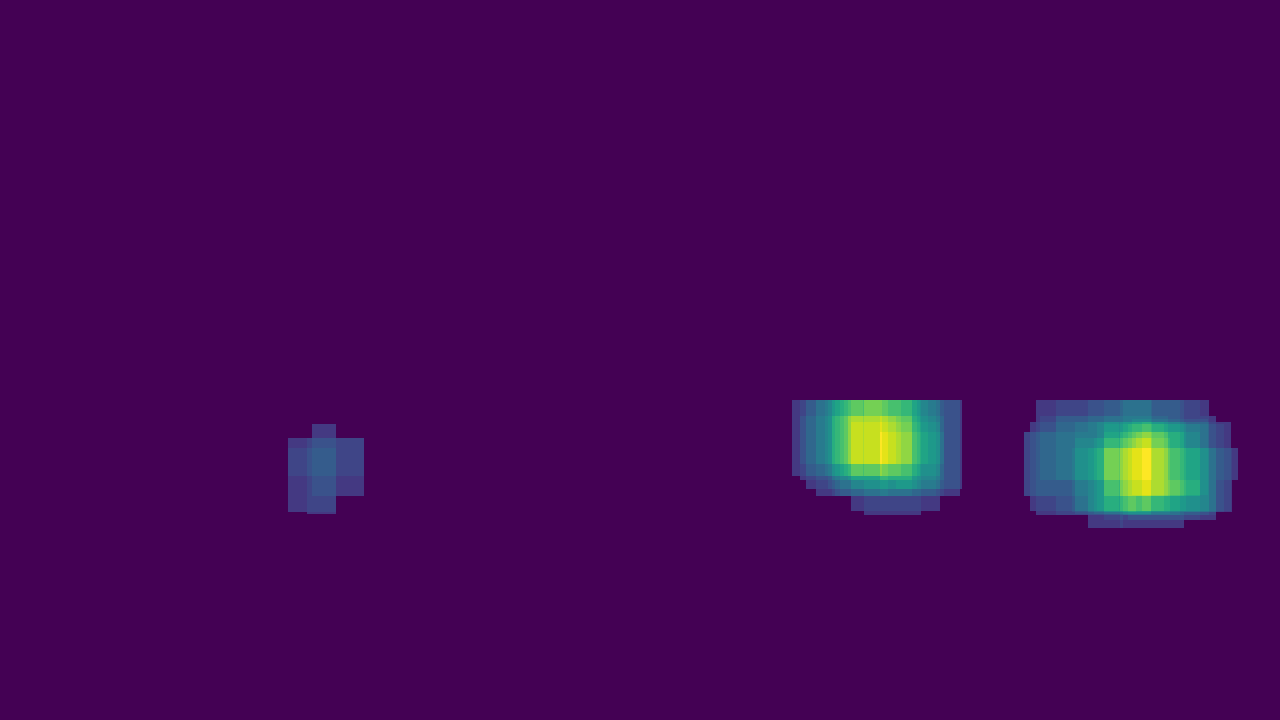
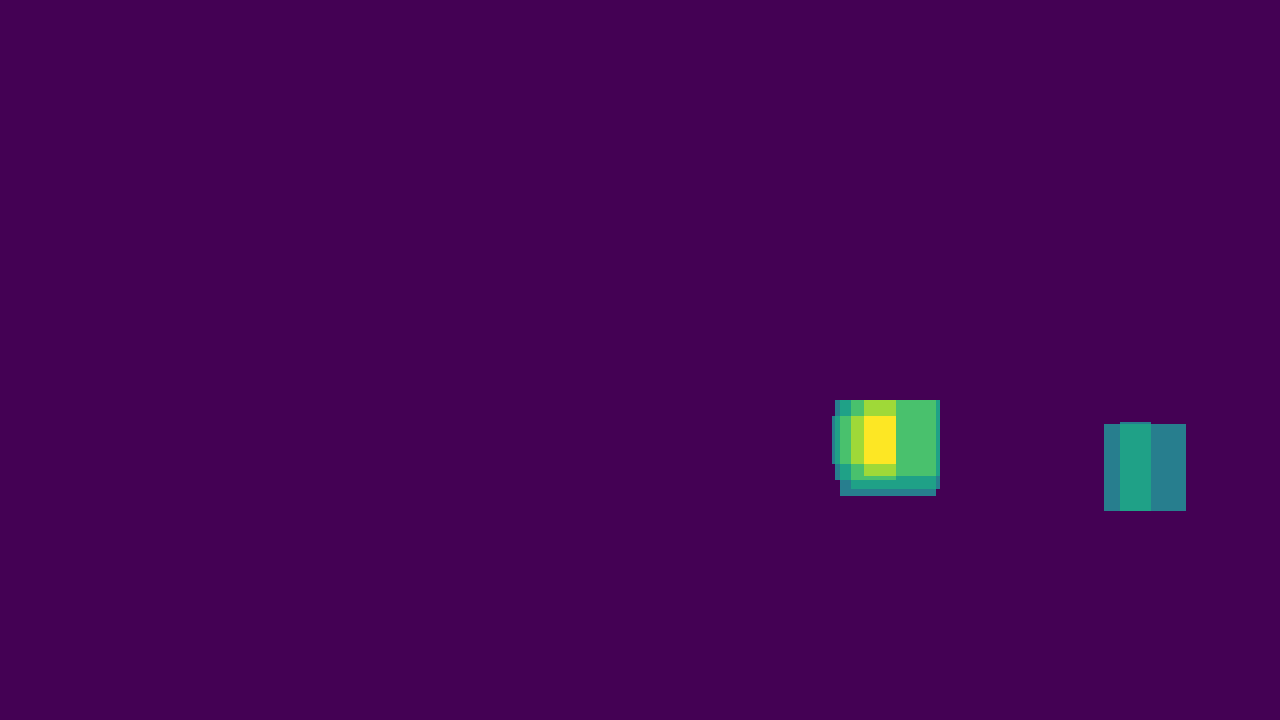
update

Changed region(s): [[0.7812, 0.55, 0.9688, 0.7333], [0.5938, 0.55, 0.75, 0.7333], [0.2188, 0.5806, 0.2812, 0.7333]]

diff --git a/hog_classifier_ket_movie_new.py b/hog_classifier_ket_movie_new.py
@@ -16,7 +16,7 @@ import pickle
 from lesson_functions import *
 
 # Divide up into cars and notcars
-debug_prt=0
+debug_prt=1
 model_file='svc_model_cp1.p'
 
 car_images = glob.glob('./vehicles/**/*.png')
@@ -101,7 +101,7 @@ X_train, X_test, y_train, y_test = train_test_split(
     scaled_X, y, test_size=0.2, random_state=rand_state)
 
 print('Using:',orient,'orientations',pix_per_cell,
-    'pixels per cell and', cell_per_block,'cells per block')
+      'pixels per cell and', cell_per_block,'cells per block')
 print('Feature vector length:', len(X_train[0]))
 
 
@@ -109,7 +109,6 @@ if (os.path.isfile(model_file))==False:
     print('model file is not found, moving to training mode')
     svc = LinearSVC()
     # Check the training time for the SVC
-
     t=time.time()
     svc.fit(X_train, y_train)
     t2 = time.time()
@@ -146,9 +145,15 @@ print(round(t2-t, 5), 'Seconds to predict', n_predict,'labels with SVC')
 #smoothing
 sample_img = mpimg.imread('./sample/bbox-example-image.jpg')
 smooth_filter=np.zeros_like(sample_img[:,:,0]).astype(np.float)
+sample_img = mpimg.imread('./sample/bbox-example-image.jpg')
+asmooth_filter=np.zeros((sample_img.shape[0], sample_img.shape[1], 9)).astype(np.float)
+#print(smooth_filter.shape, sample_img.shape, asmooth_filter.shape, sample_img.shape[0])
+
+#asmooth_filter[:,:,0]=sample_img[:,:,0]
+filter_counter=0
 
 def frame_process(img):
-    global smooth_filter
+    global asmooth_filter, filter_counter
     ystart = 400
     ystop = 680
     #scales = [1.0, 1.5, 1.8, 2] #works good
@@ -161,33 +166,39 @@ def frame_process(img):
     #transfer hot boxes to the box_list for heat map
         for i in range(len(hot_boxes)):
             box_=hot_boxes[i]
-            if conf_scores[i] >= 1.001:
+            if conf_scores[i] >= 1.0:
                 box_list.append(box_)
 
     heat = np.zeros_like(img[:, :, 0]).astype(np.float)
-
     # Add heat to each box in box list
     heat = add_heat(heat, box_list)
     # Apply threshold to help remove false positives
     # 7 works good
     #new_heat = np.zeros_like(img[:, :, 0]).astype(np.float)
-    heat=0.3*heat+0.7*smooth_filter
-
+    #heat=0.3*heat+0.7*smooth_filter
+    for i in range(9):
+        heat=heat+asmooth_filter[:,:,i]
+    heat=heat/10.0
     #"{0:.2f}".format(a)
     #heat_thr = smooth_filter.mean() + 5.0 * np.sqrt(smooth_filter.var())
-    heat_thr=4
+    heat_thr=2
     if debug_prt:
-        print('heat: mean, max, var, stdev', "{0:.2f}".format(heat.mean()), "{0:.2f}".format(heat.max()),
+        print('filter_conter, heat: mean, max, var, stdev', filter_counter, "{0:.2f}".format(heat.mean()), "{0:.2f}".format(heat.max()),
               "{0:.2f}".format(np.sqrt(heat.var())),
-              'smooth filter: mean, max, var', "{0:.2f}".format(smooth_filter.mean()), "{0:.2f}".format(smooth_filter.max()),
-              "{0:.2f}".format(np.sqrt(smooth_filter.var())), "{0:.2f}".format(heat_thr))
+              'smooth filter: mean, max, var', "{0:.2f}".format(asmooth_filter.mean()), "{0:.2f}".format(asmooth_filter.max()),
+              "{0:.2f}".format(np.sqrt(asmooth_filter.var())), "{0:.2f}".format(heat_thr))
     #heat_thr=smooth_filter.mean()+6.0*np.sqrt(smooth_filter.var())
     heat = apply_threshold(heat, heat_thr)
     # Visualize the heatmap when displaying
-    smooth_filter = heat
+    asmooth_filter[:,:,filter_counter]=heat
+    filter_counter=(filter_counter+1)%9
     heatmap = np.clip(heat, 0, 255)
     # Find final boxes from heatmap using label function
     labels = label(heatmap)
+    boxes=labels_to_boxes(labels)
+    print(boxes)
+    #x_size, y_size = box_size(bbox)
+    #if x_size > 30 and y_size > 30:
 
     draw_img = draw_labeled_bboxes(np.copy(img), labels)
 
@@ -199,12 +210,11 @@ debug_movie=1
 if movie_mode:
 
     if debug_movie:
-        output_video = 'P5_ket_out_dbg_new2_confint10.mp4'
-
-        #clip1=VideoFileClip("project_video.mp4").subclip(35, 43)
+        output_video = 'P5_ket_out_dbg_new2_cin10_th2.mp4'
+        #.subclip(35, 43)
         clip1 = VideoFileClip("project_video.mp4").subclip(35, 43)
     else:
-        output_video = 'P5_ket_out_full.mp4'
+        output_video = 'P5_ket_out_full_confint10_th3.mp4'
         clip1=VideoFileClip("project_video.mp4")
 
     out_clip=clip1.fl_image(frame_process)

diff --git a/lesson_functions.py b/lesson_functions.py
@@ -171,6 +171,14 @@ def draw_boxes(img, bboxes, color=(0, 0, 255), thick=6):
     # Return the image copy with boxes drawn
     return imcopy
 
+def draw_single_box(img, box, color=(0, 0, 255), thick=6):
+    # Make a copy of the image
+    imcopy = np.copy(img)
+    cv2.rectangle(imcopy, bbox[0], bbox[1], color, thick)
+    # Return the image copy with boxes drawn
+    return imcopy
+
+
 
 
 # Define a single function that can extract features using hog sub-sampling and make predictions
@@ -363,13 +371,13 @@ def draw_labeled_bboxes(img, labels):
         # Draw the box on the image
         #ket modified
         #print('size in draw_labels', box_size(bbox))
-        x_size, y_size=box_size(bbox)
-        if x_size >32 and y_size > 32:
-            cv2.rectangle(img, bbox[0], bbox[1], (0, 0, 255), 6)
+
+        cv2.rectangle(img, bbox[0], bbox[1], (0, 0, 255), 6)
     # Return the image
     return img
 
 def labels_to_boxes(labels):
+    bbox_=[]
     for x_ in range(1, labels[1] + 1):
         # Find pixels with each car_number label value
         nonzero = (labels[0] == x_).nonzero()
@@ -378,7 +386,9 @@ def labels_to_boxes(labels):
         nonzerox = np.array(nonzero[1])
         # Define a bounding box based on min/max x and y
         bbox = ((np.min(nonzerox), np.min(nonzeroy)), (np.max(nonzerox), np.max(nonzeroy)))
-    return bbox
+        bbox_.append(bbox)
+
+    return bbox_
 #
 #Kemal Tepe additions
 
